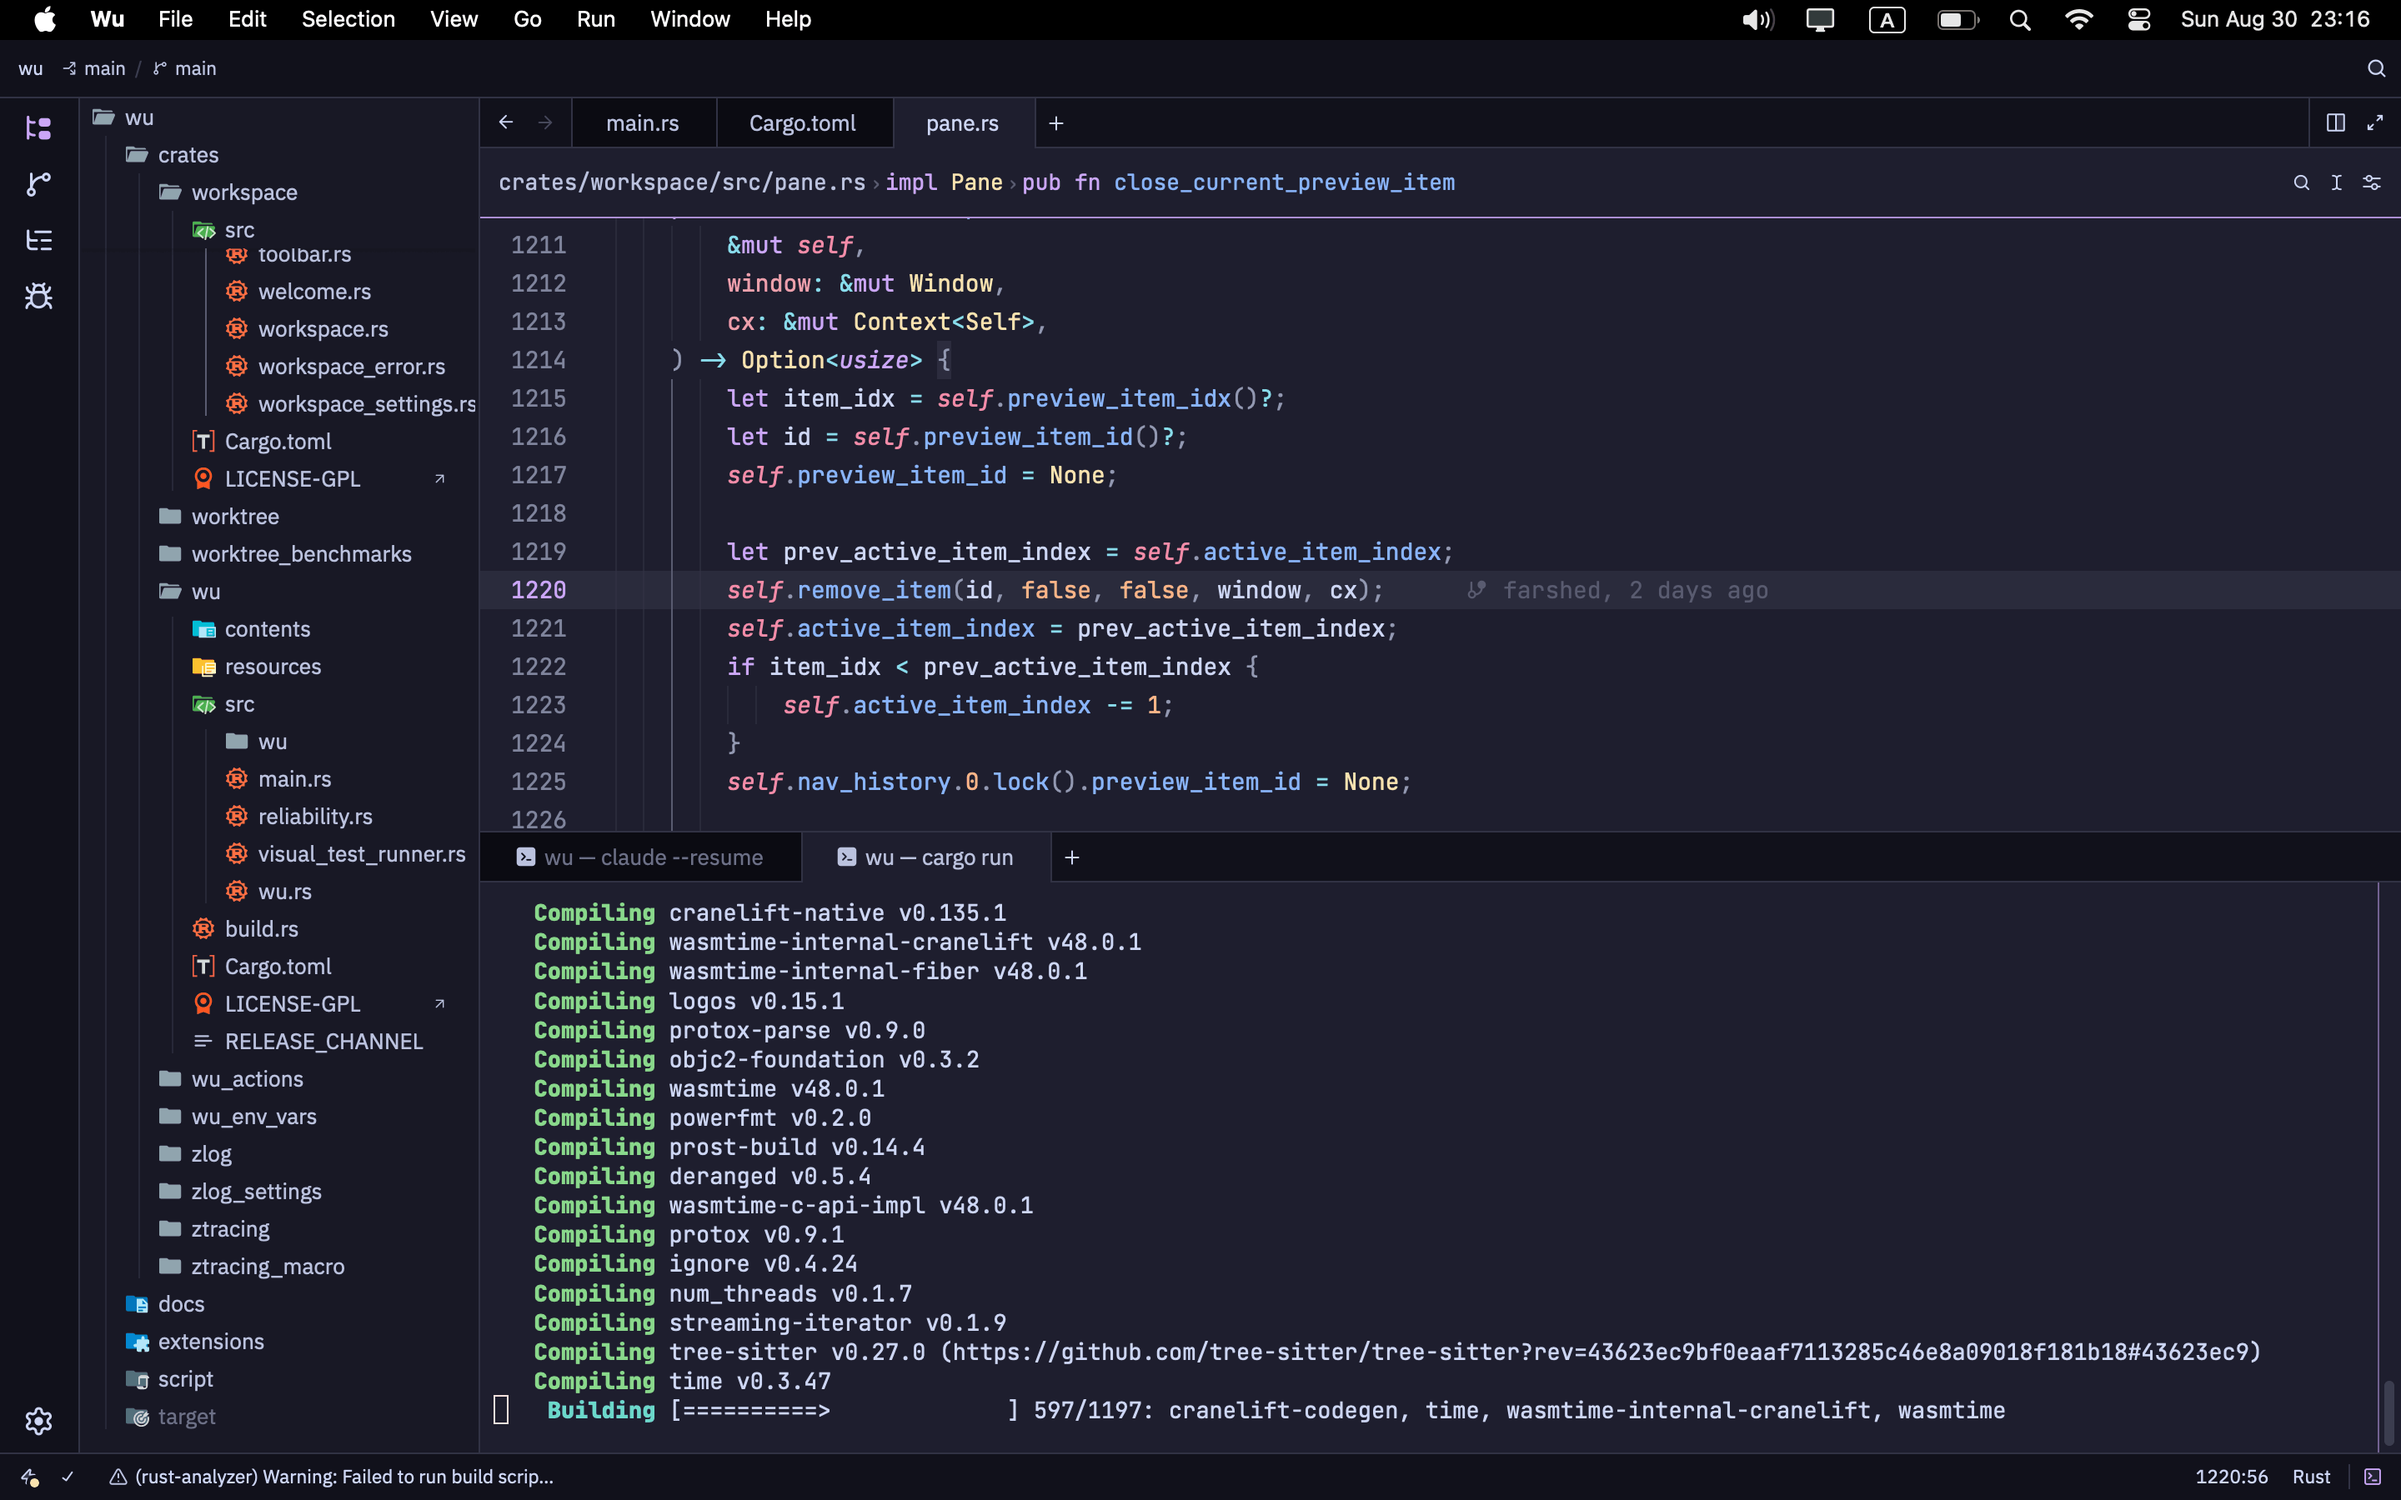
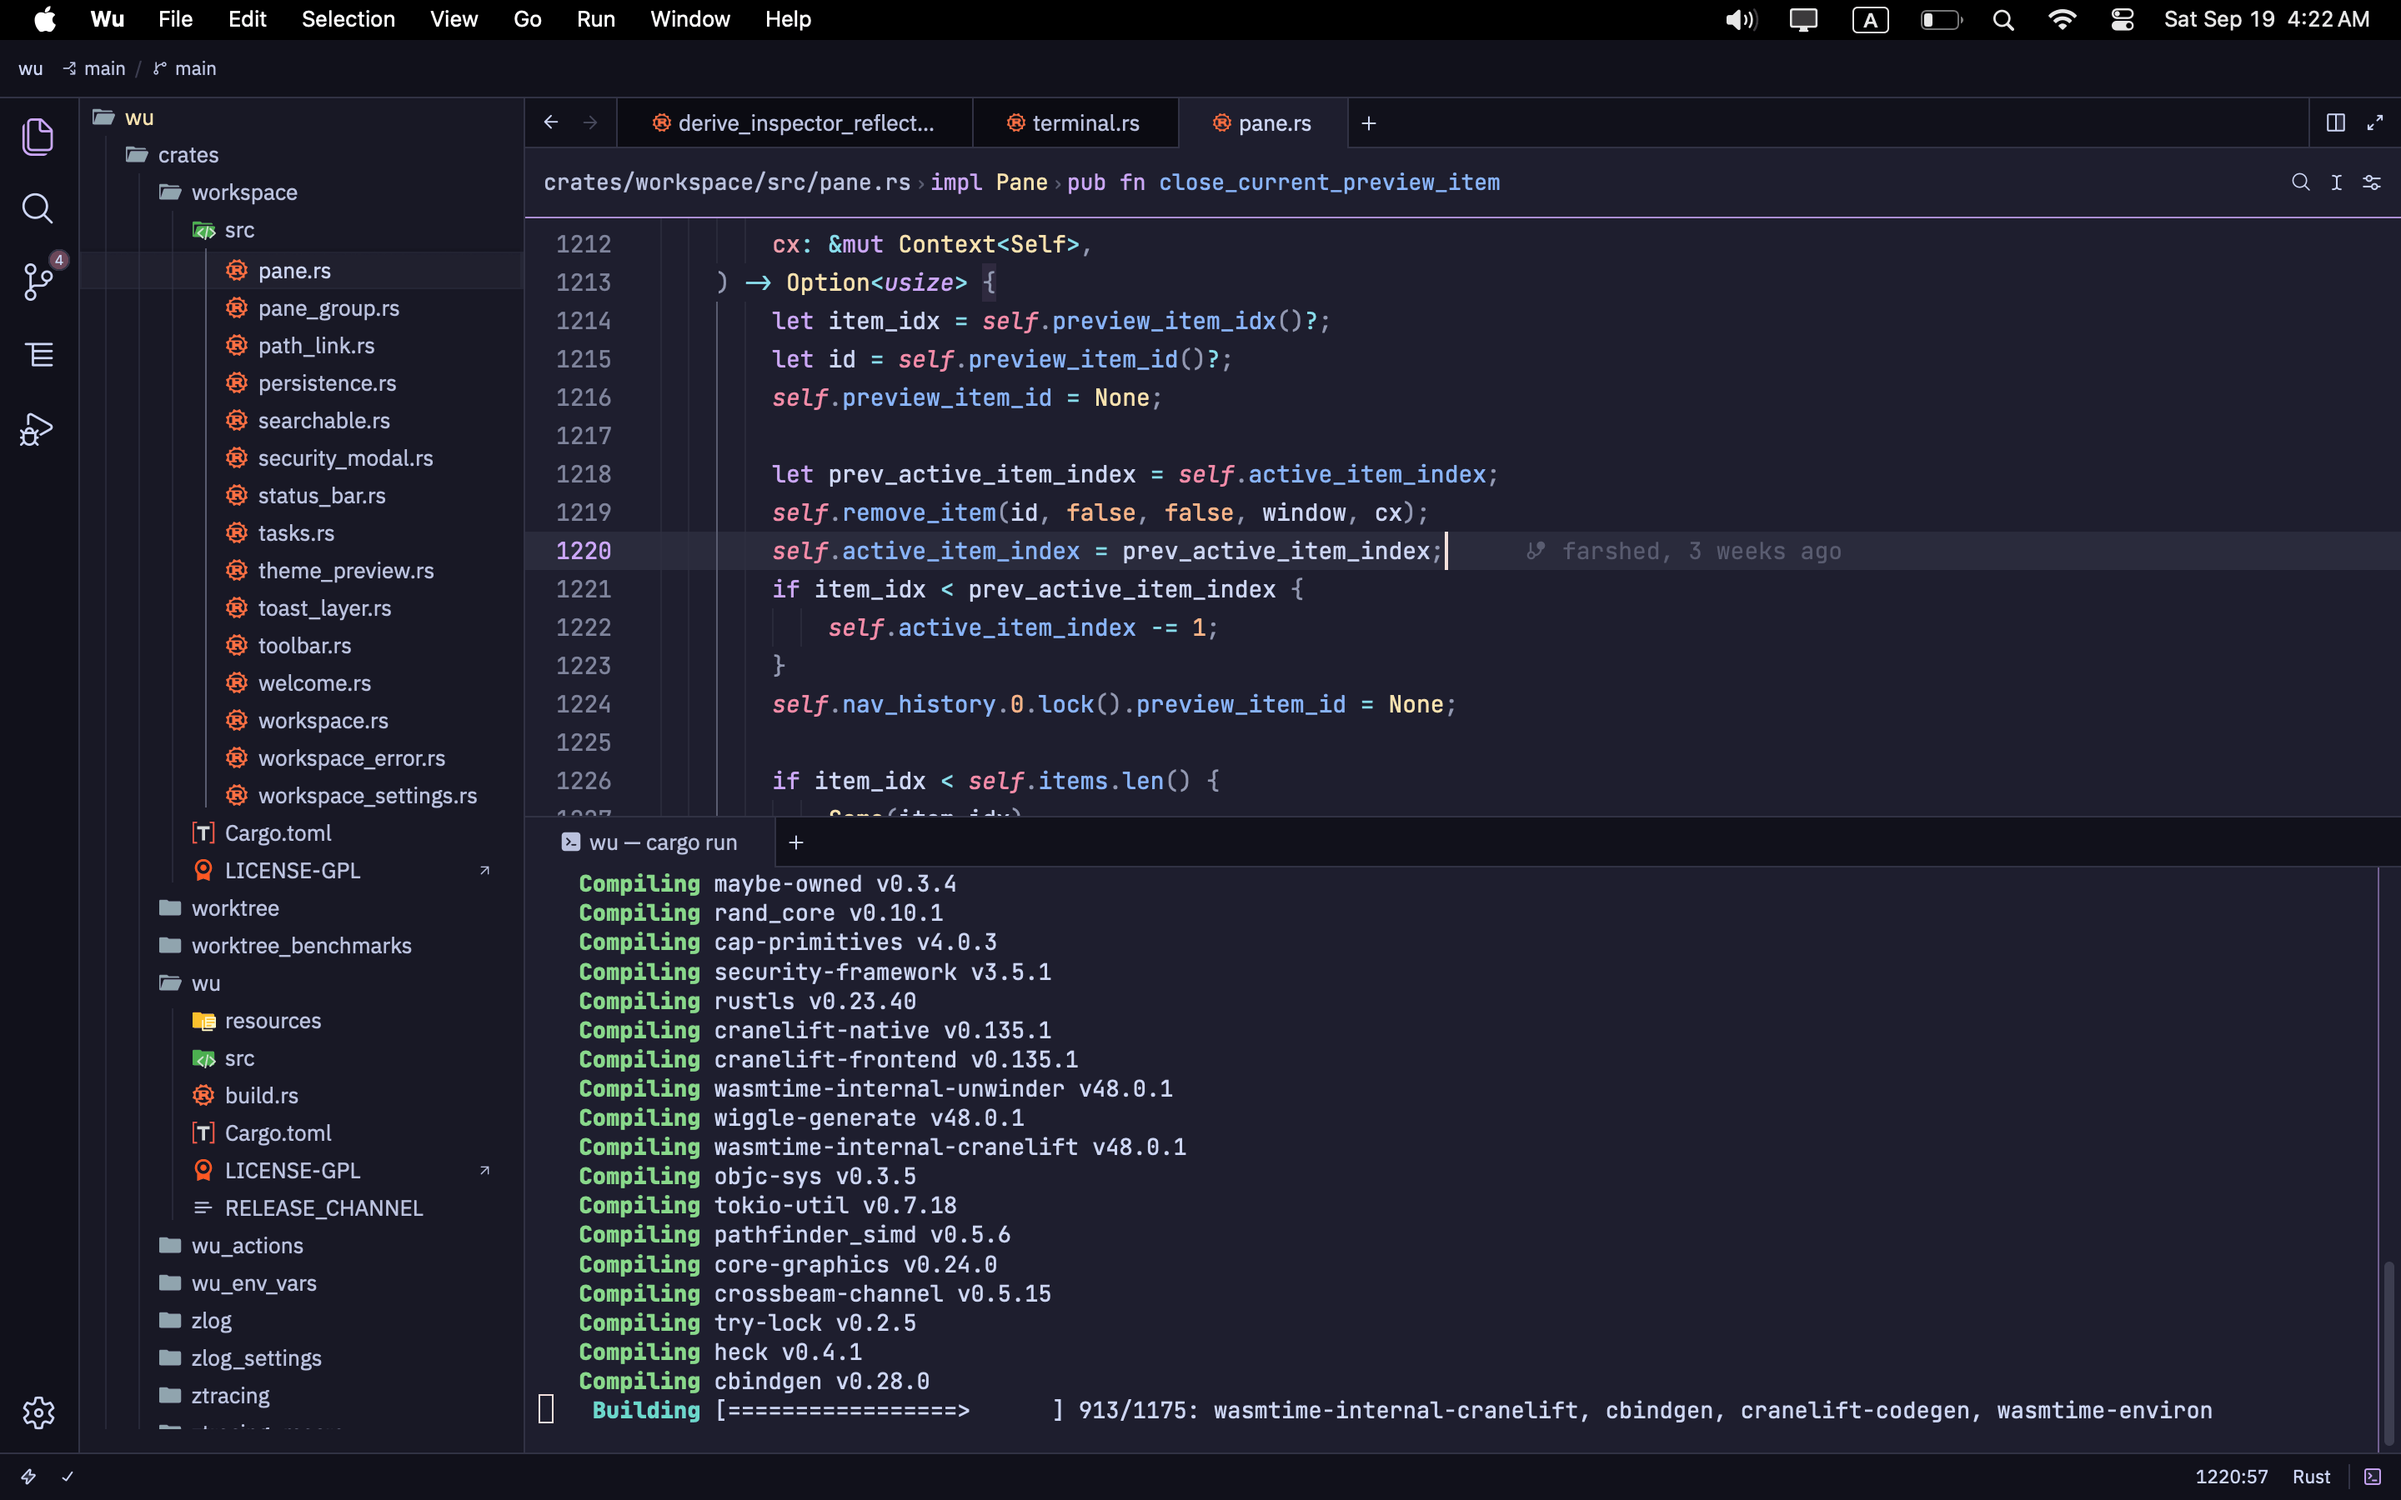
Update docs

diff --git a/README.md b/README.md
@@ -21,9 +21,9 @@ Wu is a fork of [Zed](https://github.com/zed-industries/zed). It inherits Zed's 
 
 ---
 
-![Wu screenshot dark](assets/images/screenshot-dark.png)
+![Wu screenshot dark](https://wu.farshed.me/screenshot-dark.png)
 
-![Wu screenshot light](assets/images/screenshot-light.png)
+![Wu screenshot light](https://wu.farshed.me/screenshot-light.png)
 
 ## Docs
 
